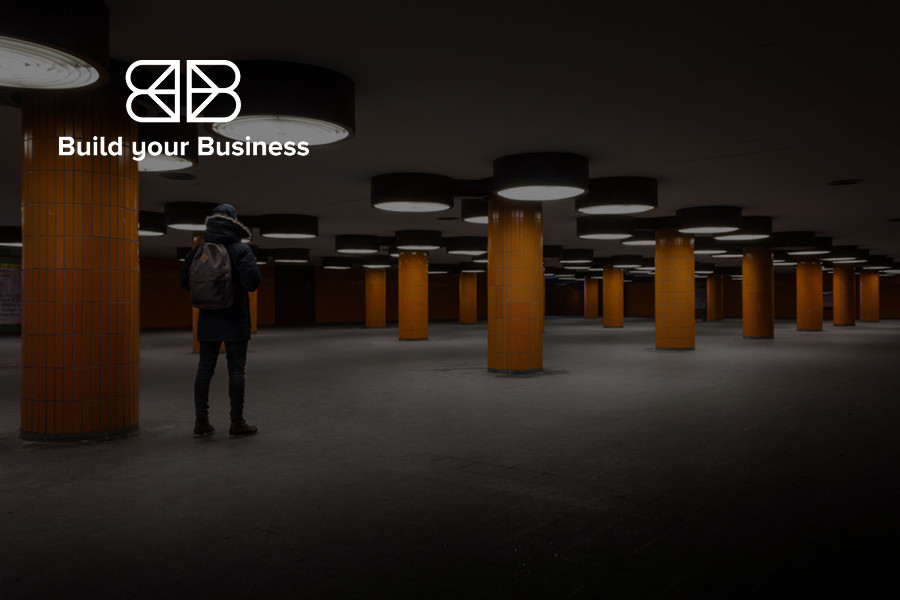
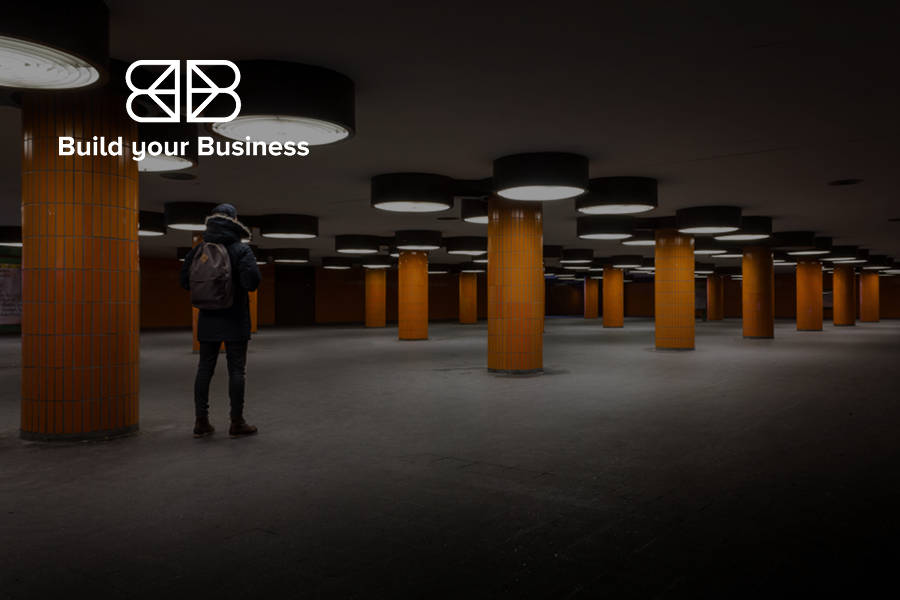
Image opacity and slide 7 added :: v0.0.13

diff --git a/index.html b/index.html
@@ -311,6 +311,43 @@
                 </div>
                 <!-- End slide:6 -->
 
+                <!-- slide:7 -->
+                <div class="iS-Items" data-loopTime="6000">
+
+                    <div class="iS-Item"
+                         data-effectIn="slidebottom" data-effectInTime="2000" data-effectInDelay="0"
+                         data-effectOut="slideleft" data-effectOutTime="500" data-effectOutDelay="0"
+                         data-effectInBack="slidebottom" data-effectInTimeBack="2000" data-effectInDelayBack="0"
+                         data-effectOutBack="slideright" data-effectOutTimeBack="500" data-effectOutDelayBack="0">
+                        <img class="iS-Image iS-ImageAutofit md-invisible lg-invisible" src="img/home-slider/slide7-res.jpg" />
+                        <img class="iS-Image iS-ImageAutofit xs-invisible sm-invisible " src="img/home-slider/slide7.jpg" />
+                        <div class="iS-Bg slide5-bg1"></div>
+                    </div>
+
+                    <div class="iS-Item"
+                         data-effectIn="flipright slidetop slideright fadein" data-effectInTime="1000" data-effectInDelay="1700"
+                         data-effectOut="slideleft fadein" data-effectOutTime="500" data-effectOutDelay="0"
+                         data-effectInBack="slideleft fadein" data-effectInTimeBack="1200" data-effectInDelayBack="1700"
+                         data-effectOutBack="slideright fadein" data-effectOutTimeBack="500" data-effectOutDelayBack="0">
+                        <p class="iS-Text slide1-text1 iS-TextHole iS-TextCenter iS-TextMiddle">
+                            Identify <span class="color">New Opportunities</span> <br> Crush the <span class="color">Competition
+                            </span>
+                        </p>
+                    </div>
+
+                    <div class="iS-Item"
+                         data-effectIn="fliptop slidebottom fadein" data-effectInTime="1000" data-effectInDelay="2000"
+                         data-effectOut="slideleft fadein" data-effectOutTime="500" data-effectOutDelay="0"
+                         data-effectInBack="flipbottom slidetop fadein" data-effectInTimeBack="1000" data-effectInDelayBack="2000"
+                         data-effectOutBack="slideright fadein" data-effectOutTimeBack="500" data-effectOutDelayBack="0">
+                        <p class="slide1-text2 iS-TextCenter lead">
+                            Become a disruptor before you get disrupted.
+                        </p>
+                    </div>
+
+                </div>
+                <!-- End slide:7 -->
+
             </div>
             <!--End slider Content-->
 
